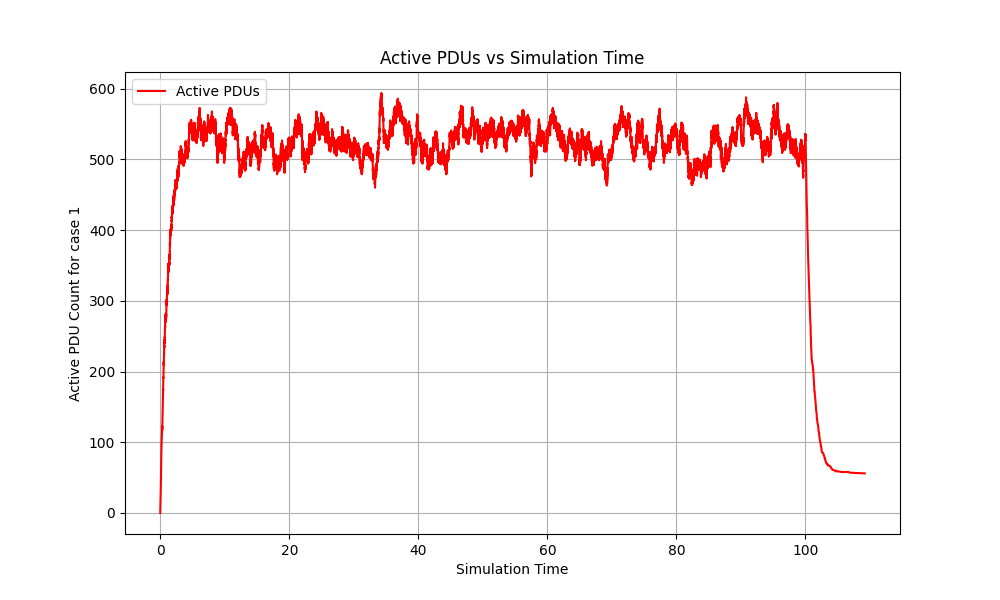
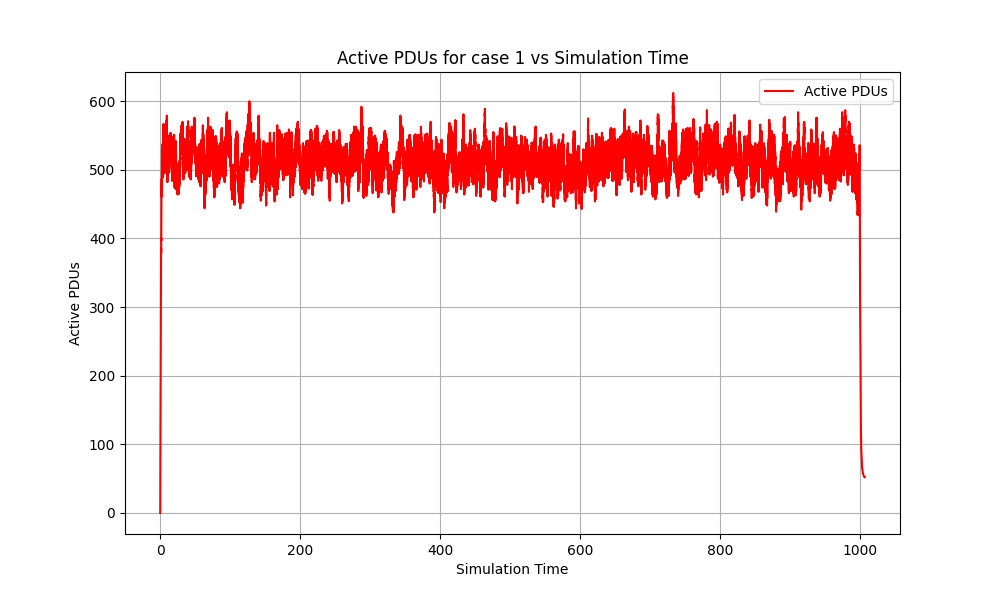
Added PDFs and modified the plots for better readability

diff --git a/post_processing.py b/post_processing.py
@@ -1,4 +1,6 @@
 import matplotlib.pyplot as plt
+import numpy as np
+from scipy.stats import gaussian_kde
 
 
 def generate_plots_case0(time_points, pdu_counts, upf_counts, active_pdu_counts, active_upf_counts):
@@ -11,12 +13,21 @@ def generate_plots_case0(time_points, pdu_counts, upf_counts, active_pdu_counts,
     :param active_pdu_counts: List of active PDUs
     :param active_upf_counts: List of active UPFs
     """
+
+    kde_pdu = gaussian_kde(active_pdu_counts)
+    pdu_values = np.linspace(min(active_pdu_counts), max(active_pdu_counts), 1000)
+    pdu_pdf = kde_pdu(pdu_values)
+
+    kde_upf = gaussian_kde(active_upf_counts)
+    upf_values = np.linspace(min(active_upf_counts), max(active_upf_counts), 1000)
+    upf_pdf = kde_upf(upf_values)
+
     # Plot PDU against simulation time
     plt.figure(figsize=(10, 6))
     plt.plot(time_points, pdu_counts, label='PDU Count', color='blue')
     plt.xlabel('Simulation Time')
-    plt.ylabel('PDU Count for case 0')
-    plt.title('PDU vs Simulation Time')
+    plt.ylabel('PDUs')
+    plt.title('PDU for case 0 vs Simulation Time')
     plt.grid(True)
     plt.legend()
     plt.savefig('pdu_vs_simulation_time_case0.png')
@@ -26,8 +37,8 @@ def generate_plots_case0(time_points, pdu_counts, upf_counts, active_pdu_counts,
     plt.figure(figsize=(10, 6))
     plt.plot(time_points, upf_counts, label='UPF Count', color='green')
     plt.xlabel('Simulation Time')
-    plt.ylabel('UPF Count for case 0')
-    plt.title('UPF vs Simulation Time')
+    plt.ylabel('UPFs')
+    plt.title('UPF for case 0 vs Simulation Time')
     plt.grid(True)
     plt.legend()
     plt.savefig('upf_vs_simulation_time_case0.png')
@@ -36,8 +47,8 @@ def generate_plots_case0(time_points, pdu_counts, upf_counts, active_pdu_counts,
     plt.figure(figsize=(10, 6))
     plt.plot(time_points, active_pdu_counts, label='Active PDUs', color='red')
     plt.xlabel('Simulation Time')
-    plt.ylabel('Active PDU Count for case 0')
-    plt.title('Active PDUs vs Simulation Time')
+    plt.ylabel('Active PDUs')
+    plt.title('Active PDUs for case 0 vs Simulation Time')
     plt.grid(True)
     plt.legend()
     plt.savefig('active_pdus_vs_simulation_time_case0.png')
@@ -47,11 +58,31 @@ def generate_plots_case0(time_points, pdu_counts, upf_counts, active_pdu_counts,
     plt.figure(figsize=(10, 6))
     plt.plot(time_points, active_upf_counts, label='Active UPFs', color='orange')
     plt.xlabel('Simulation Time')
-    plt.ylabel('Active UPF Count for case 0')
-    plt.title('Active UPFs vs Simulation Time')
+    plt.ylabel('Active UPFs')
+    plt.title('Active UPFs for case 0 vs Simulation Time')
     plt.grid(True)
     plt.legend()
     plt.savefig('active_upfs_vs_simulation_time_case0.png')
+    plt.show()
+
+    plt.figure(figsize=(10, 6))
+    plt.plot(pdu_values, pdu_pdf, label='PDU PDF', color='blue')
+    plt.xlabel('PDUs')
+    plt.ylabel('Probability Density')
+    plt.title('PDF for case 0 for PDUs')
+    plt.grid(True)
+    plt.legend()
+    plt.savefig('pdu_pdf_case0.png')
+    plt.show()
+
+    plt.figure(figsize=(10, 6))
+    plt.plot(upf_values, upf_pdf, label='UPF PDF', color='green')
+    plt.xlabel('UPFs')
+    plt.ylabel('Probability Density')
+    plt.title('PDF for case 0 for UPFs')
+    plt.grid(True)
+    plt.legend()
+    plt.savefig('upf_pdf_case0.png')
     plt.show()
 
 
@@ -66,12 +97,20 @@ def generate_plots_case1(time_points, pdu_counts, upf_counts, active_pdu_counts,
     :param active_upf_counts: List of active UPFs
     """
 
+    kde_pdu = gaussian_kde(active_pdu_counts)
+    pdu_values = np.linspace(min(active_pdu_counts), max(active_pdu_counts), 1000)
+    pdu_pdf = kde_pdu(pdu_values)
+
+    kde_upf = gaussian_kde(active_upf_counts)
+    upf_values = np.linspace(min(active_upf_counts), max(active_upf_counts), 1000)
+    upf_pdf = kde_upf(upf_values)
+
     # Plot PDU against simulation time
     plt.figure(figsize=(10, 6))
     plt.plot(time_points, pdu_counts, label='PDU Count', color='blue')
     plt.xlabel('Simulation Time')
-    plt.ylabel('PDU Count for case 1')
-    plt.title('PDU vs Simulation Time')
+    plt.ylabel('PDUs')
+    plt.title('PDU for case 1 vs Simulation Time')
     plt.grid(True)
     plt.legend()
     plt.savefig('pdu_vs_simulation_time_case1.png')
@@ -81,8 +120,8 @@ def generate_plots_case1(time_points, pdu_counts, upf_counts, active_pdu_counts,
     plt.figure(figsize=(10, 6))
     plt.plot(time_points, upf_counts, label='UPF Count', color='green')
     plt.xlabel('Simulation Time')
-    plt.ylabel('UPF Count for case 1')
-    plt.title('UPF vs Simulation Time')
+    plt.ylabel('UPFs')
+    plt.title('UPF for case 1 vs Simulation Time')
     plt.grid(True)
     plt.legend()
     plt.savefig('upf_vs_simulation_time_case1.png')
@@ -91,8 +130,8 @@ def generate_plots_case1(time_points, pdu_counts, upf_counts, active_pdu_counts,
     plt.figure(figsize=(10, 6))
     plt.plot(time_points, active_pdu_counts, label='Active PDUs', color='red')
     plt.xlabel('Simulation Time')
-    plt.ylabel('Active PDU Count for case 1')
-    plt.title('Active PDUs vs Simulation Time')
+    plt.ylabel('Active PDUs')
+    plt.title('Active PDUs for case 1 vs Simulation Time')
     plt.grid(True)
     plt.legend()
     plt.savefig('active_pdus_vs_simulation_time_case1.png')
@@ -102,9 +141,29 @@ def generate_plots_case1(time_points, pdu_counts, upf_counts, active_pdu_counts,
     plt.figure(figsize=(10, 6))
     plt.plot(time_points, active_upf_counts, label='Active UPFs', color='orange')
     plt.xlabel('Simulation Time')
-    plt.ylabel('Active UPF Count for case 1')
-    plt.title('Active UPFs vs Simulation Time')
+    plt.ylabel('Active UPFs')
+    plt.title('Active UPFs for case 1 vs Simulation Time')
     plt.grid(True)
     plt.legend()
     plt.savefig('active_upfs_vs_simulation_time_case1.png')
+    plt.show()
+
+    plt.figure(figsize=(10, 6))
+    plt.plot(pdu_values, pdu_pdf, label='PDU PDF', color='blue')
+    plt.xlabel('PDUs')
+    plt.ylabel('Probability Density')
+    plt.title('PDF for case 1 for PDUs')
+    plt.grid(True)
+    plt.legend()
+    plt.savefig('pdu_pdf_case1.png')
+    plt.show()
+
+    plt.figure(figsize=(10, 6))
+    plt.plot(upf_values, upf_pdf, label='UPF PDF', color='green')
+    plt.xlabel('UPFs')
+    plt.ylabel('Probability Density')
+    plt.title('PDF for case 1 for UPFs')
+    plt.grid(True)
+    plt.legend()
+    plt.savefig('upf_pdf_case1.png')
     plt.show()

diff --git a/main.py b/main.py
@@ -319,7 +319,7 @@ if __name__ == "__main__":
     parser.add_argument("--max-sessions-per-upf", type=int, default=8, help="Maximum number of sessions per UPF (C)")
     parser.add_argument("--scale-out-threshold", type=int, default=3, help="Scale-out threshold (T1)")
     parser.add_argument("--scale-in-threshold", type=int, default=13, help="Scale-in threshold (T2)")
-    parser.add_argument("--simulation-time", type=int, default=100, help="Simulation time")
+    parser.add_argument("--simulation-time", type=int, default=1000, help="Simulation time")
     parser.add_argument("--arrival_rate", type=int, default=500, help="Inter-arrival rate (λ)")
     parser.add_argument("--mu", type=int, default=1, help="parameter for session duration (µ)")
     parser.add_argument("--output-file", type=str, default="simulation.log", help="File to write simulation outputs")
